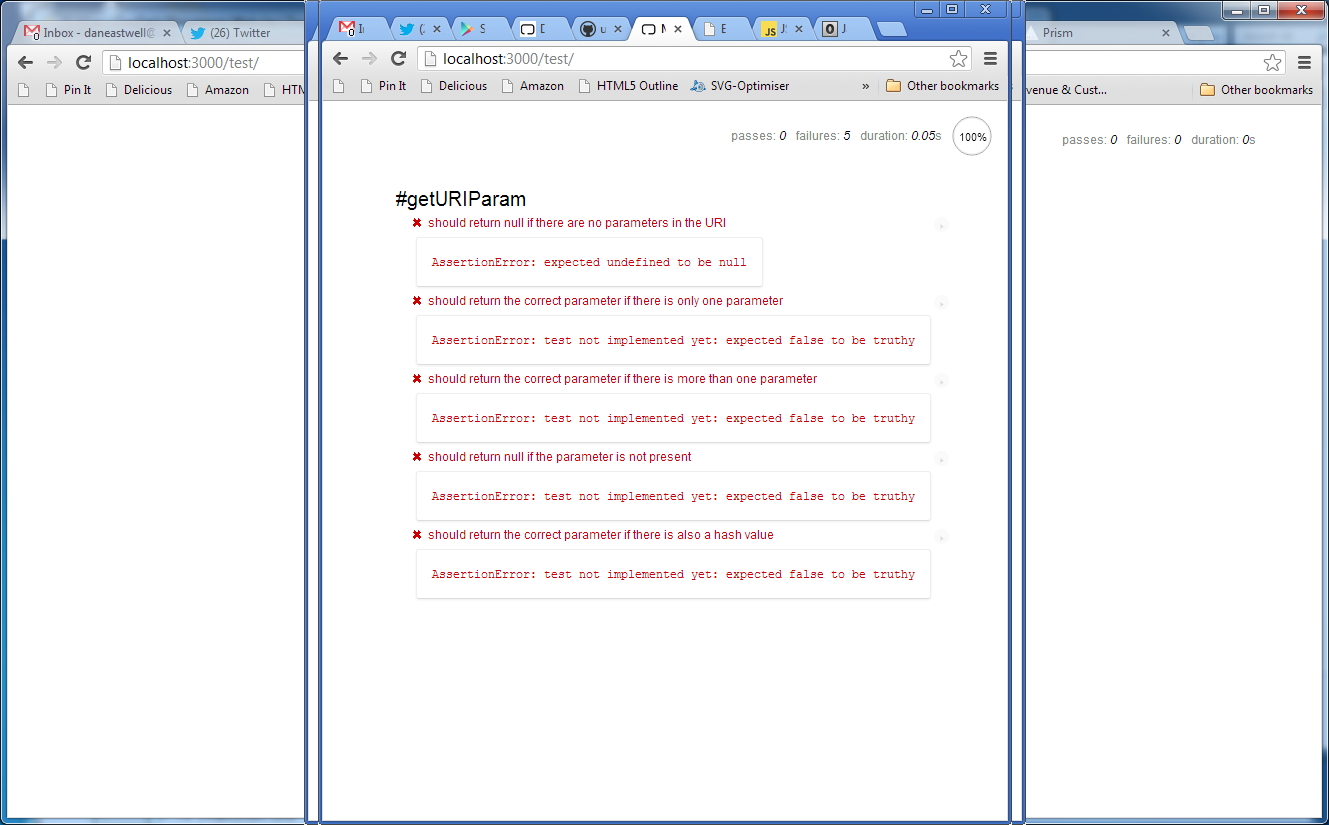
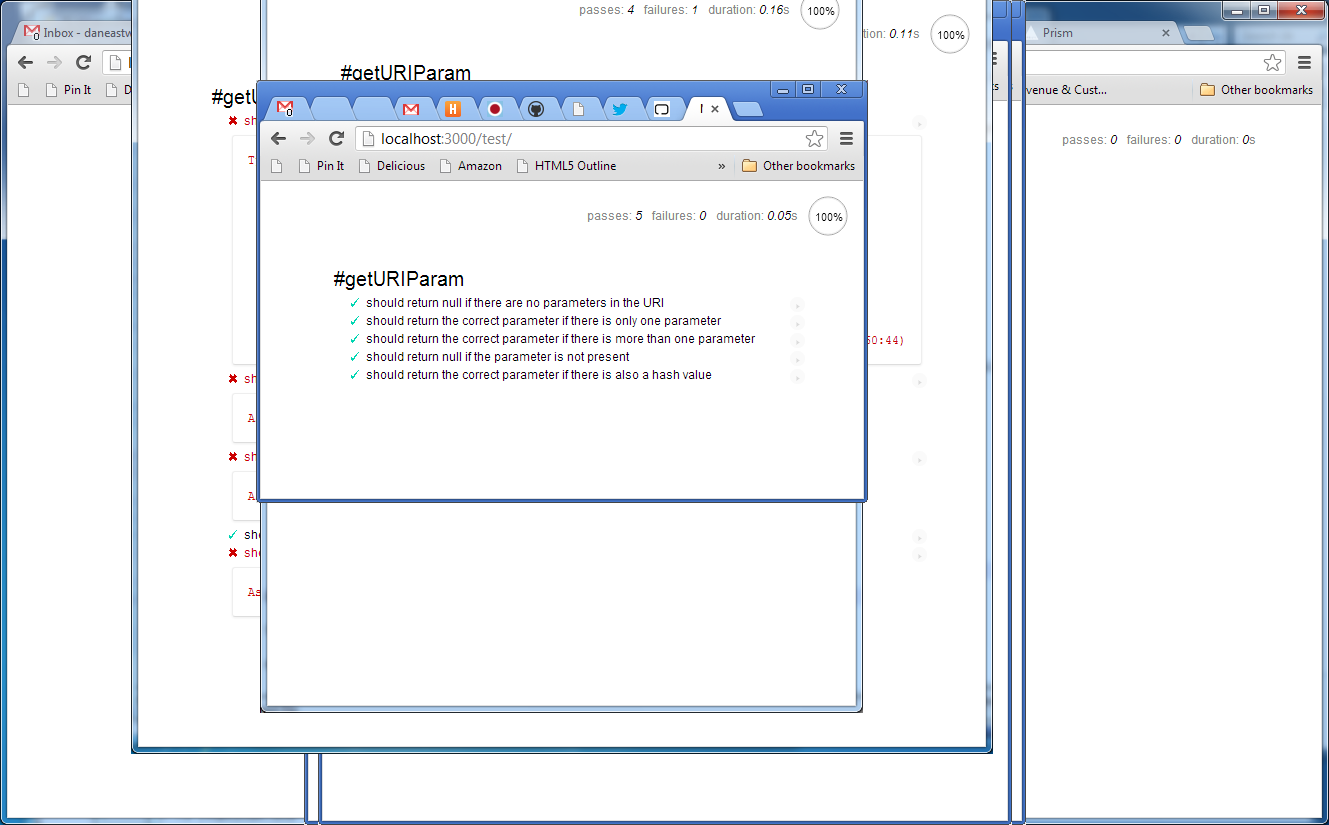
Complete article on TDD

Changed region(s): [[0.0926, 0.0, 0.7713, 0.9394], [0.4628, 0.697, 0.5245, 0.7273], [0.3394, 0.697, 0.4011, 0.7273]]

diff --git a/_posts/0000-02-09-testing-for-jquery-users.md b/_posts/0000-02-09-testing-for-jquery-users.md
@@ -19,7 +19,9 @@ related:
 * [Leap straight to the How To](#how_to_test)
 * [View the code used in this test on github](https://github.com/maskingtape/unit-test-tutorial)
 
-I always wondered why (especially if you worked with a test team), you needed to test your code at all. And how you could test, if you were building a web page whose success or failure was shown by out of place HTML?
+If you're at the stage you're writing javascript using jQuery and have heard of TDD, BDD or Unit Tests and wondered how to get started, or why you should bother, this article should give a gentle introduction.
+
+I always wondered why (especially if you worked with a test team), you needed to test your code at all. And how you could test, if you were building a web page whose success or failure was only shown by out of place HTML?
 
 I have been introduced to three types of testing
 
@@ -37,9 +39,9 @@ At a much simpler level, a developer who is used to enhancing a web page with jQ
 
 Once you've built your site, pretty much anything can happen - clicks, hovers, dynamically loaded content and then in a variety of browers. How can you cover it all? Where to start?
 
-The key for me was to accept that you can't. You can, however, test parts. Then at least you've tested something. 
+The key for me was to accept that you can't cover it all. You can, however, test parts. Then at least you've tested something. 
 
-Why test? Because you may not be the only person working on the code - if you have a test, then you can tell if they've broken it. You may be the only persion working on the code. In six months' time you want to know if _you've_ broken it.
+Why test? Because you may not be the only person working on the code - if you have a test, then they can tell if they've broken it. You may be the only persion working on the code. In six months' time you want to know if _you've_ broken it.
 
 Even the simplest of web pages can be quite stateful. For example if you're fetching a parameter from the URL, say, then there's a lot to bear in mind:
 
@@ -48,13 +50,13 @@ Even the simplest of web pages can be quite stateful. For example if you're fetc
 * Is the parameter you require there?
 * What if there's a hash value?
 
-To ensure your simple parameter function works, you need to go through those steps to check. If you're thorough, you need to go through them every time you change a related part of your code.
+To ensure your simple parameter function works, you'd need to go through each of those steps to check your function was working. If you're thorough, you need to go through each of those steps _every time_ you change a related part of your code.
 
-_If you've written tests, you refresh your test page._
+_If you've written tests, you only need to refresh your test page._
 
 ## How to test
 
-Take our fetching a parameter from the URL example - it's straightforward, to write what you expect the function to do in those situations:
+Take our fetching-a-parameter-from-the-URL example, it's straightforward to write what you'd expect the function to do in those situations:
 
 * Does it have no parameter at all?
   _You'd expect the function to return null._
@@ -85,7 +87,7 @@ Your tests need to live somewhere separate to your code, but have access to it. 
         chai.js
         mocha.css
       
-Let's have a look at this. `index.html` and `script.js` are your code as written (or as yet to be written).
+Let's have a look at this. `index.html` and `script.js` are your site code (yet to be written).
 
 `/test` will contain all your tests. You'll need an HTML file for each set of tests (or all of them) and a `test.js` file containing your tests. We'll come to that in a bit.
 
@@ -171,6 +173,8 @@ Other than that it reads as english. I've filled the rest in at [this commit in 
 
 ![Screenshot of all the tests failing](/images/2_9_empty.png)
 
+Everything's failing. Good. Now let's start fixing that...
+
 ### Accessing your function
 
 Let's actually write some code now. I've added in my html file and my javascript. I've added the `getURIParam` function, but it's empty for now.
@@ -204,7 +208,7 @@ Here's the javascript
       "use strict";
       
       var self = {
-        getURIParam : function getURIParam(uri){
+        getURIParam : function getURIParam(uri, param){
         
         }
       };
@@ -218,8 +222,9 @@ You can see that I can access my function using `mySite.getURIParam`.
 I can now add this function call to my unit test.
 
     it('should return null if there are no parameters in the URI', function(){
-      var url = "http://www.example.com/index.html";
-      expect(mySite.getURIParam(url)).to.be.null;
+      var url = 'http://www.example.com/index.html',
+          param = 'test';
+      expect(mySite.getURIParam(url, param)).to.be.null;
     });
 
 A couple of things to note here: firstly the Chai syntax - it reads as english. You could pretty much guess the syntax and it would probably do what you imagined it would.
@@ -228,22 +233,139 @@ Secondly, note we're not actually reading the URL from the page location. We're 
 
 ![Screenshot of all the first tests failing with appropriate message](/images/2_9_one_test.png)
  
-You've now written unit tests for a simple function. Looking at these now, you might see other possible tests. What if there's no filepath? Or a very long, complex one - would you need to test for that? Probably not, given the search for `'?'` but this indicates how writing the tests can make your approach to writing code more thorough.
+The full set of tests are [on github at this commit](https://github.com/maskingtape/unit-test-tutorial/blob/f7fefc6a903fd0f5afaef570178939da98d6a2cc/test/test.js). 
+
+Looking at these now, you might see other possible tests. What if there's no filepath? Or if there are parameters, but the one requested isn't present. Maybe your code needs to cope with the parameters being in any order. 
+
+You can write Chai assertions to cover these cases - writing the tests can make your coding more thorough and robust.
+
+### Writing the code
+
+Finally! We can start filling in the function.
+
+It needs to return something, and I'll initialise that to `null`:
+
+    
+    getURIParam : function getURIParam(uri, param){
+      var val = null;
+      return val;
+    }
+    
+If you run the tests now, the tests for no parameters and parameter not present pass, hooray! Of course that's really a false pass as we've done nothing.
+
+I'll get the search value from the uri string, and the parameters as an array from that search value:
+
+    
+    getURIParam : function getURIParam(uri, param){
+      var val = null,
+          search = uri.split('?')[1],
+          params = search.split('&');
+          
+      return val;
+    }
+
+Immediately we can see a problem. Thank goodnes for those tests!
+
+![Screenshot of test results showing code error in first test](/images/2_9_code_fail.png)
+    
+We can see that the first test has failed completely. We're splitting `search`, assuming it's an existing string. If it doesn't exist, we should be returning null (test 4).
+
+Returning to the code:
+
+    getURIParam : function getURIParam(uri, param){
+      var val = null,
+          search = uri.split('?')[1],
+          params;
+
+      if(typeof search === 'undefined'){
+        return null;
+      }else{
+        params = search.split('&');
+      }
+      
+      return val;
+    }
+
+That's better. Tests 1 and 4 now pass, but we can be sure that at least test 4 is passing meaningfully.
+
+Changing the code to 
+
+    getURIParam : function getURIParam(uri, param){
+      var val = null,
+          search = uri.split('?')[1],
+          params = [];  // Given an initial assignment  
+                        // to set Array type
+
+      if(typeof search === 'undefined'){
+        return null;
+      }else{
+        params = search.split('&');
+      }
+      
+      if(params.length === 0){ // check for any parameters
+        return null;
+      }else{
+        for(var i=0;i<params.length;i++){
+          console.log(params[i]);
+        }
+      }
+      
+      return val;
+    }
+
+Now tests 1 and 4 pass meaningfully, but I'm still thinking of potential issues - what if we have an `&amp;`, rather than an `&` in the `uri`? Would our code cope? What if there's no `uri` at all? Or a param has not been passed in?
+
+I've added a `console.log` in the loop over the parameters I've got from the `uri` string.
+
+    test=3              script.js:22
+    item=003            script.js:22
+    name=dan            script.js:22
+    test=3              script.js:22
+    item=003            script.js:22
+    name=dan            script.js:22
+    amount=3            script.js:22
+    item=003            script.js:22
+    name=dan            script.js:22
+    test=3#inPageLink   script.js:22
+      
+I'd like to get the parameter value before the equals sign and if that's the one we're looking for return the value.
+
+Here's the for loop with the code I've replaced that `console.log` with:
+
+    for(var i=0;i<params.length;i++){
+      var arr = params[i].split('='),
+          key    = arr[0],
+          value  = arr[1];
+      if(key === param){
+        return value;
+      }
+    }
+    
+And here's the output: 
+
+![Tests running with all bar one passing](/images/2_9_penultimate.png)
+
+Much better! All done, bar one failing test - what to do when there's a hash value.
+
+If I change the return to strip off everything after any `#` symbol:
+
+    return value.split('#')[0];
+    
+All tests pass!
+
+![All tests passing](/images/2_9_passing.png)
+
+You've now written unit tests for a simple function. 
+
+I imagine the function could be written better, with more tests - the [code is here](https://github.com/maskingtape/unit-test-tutorial) - feel free to play.
+
+By the way, don't use this function in a real project - I've noted how there are missing tests, and missing functionality, it's illustrative only. 
 
 ## Why and When to Unit Test? 
 
-Makes your code simpler and more reusable
+Testing makes your code simpler and more reusable - you have to break your code into 'units' to enable testing, and by doing so, your code becomes modular.
 
-When you have a simple piece of code
-Not such a good idea with DOM manipulation and user interaction
-
-## Testing behaviour
-
-### The setup
-
-### Test the state of the output HTML with jQuery
-
-### The teardown
+Test when you have a simple piece of code that has to cater for many situations, as in the example. It's not such a good idea to Unit Test with DOM manipulation and user interaction - that's what behavioural and integration tests should cover.
 
 ## When not to test
 
@@ -253,11 +375,13 @@ To reduce that start up time, you really need to be sure that you are writing Un
 
 You don't need to ensure behavioural tests cover _every_ state in your system. Be judicious in your choice of tests.
 
-As you may well be working from a written requirement (or even writing them yourself), you have in plain english a documentation of how the application you're writing is meant to behave. What's more those specifications are linked directly to the code base. You're best off starting writing your tests from those requirements.
-
 If you get a bug, write a test to cover your expectation in the situation that causes the bug. E.g. if adding in a `#!` sequence breaks your url parameter getting function, then write a test expecting what should happen in that case.
 
 Finally, ensure your tests don't just cover the 'happy path'. You need to ensure you're testing beyond 'what just works', and also consider what might break your code and test for that.
+
+## Wrapping up
+
+That's Unit Testing - testing the function in isolation. In the next article, I'll be using that function in the HTML, and using Behavioural Tests (and finally some jQuery) to test what a user might actually do.
 
 {% assign related = page.related %}
 {% include related.liquid %}

diff --git a/_posts/0000-02-09-bdd-testing-for-jquery-users.md b/_posts/0000-02-09-bdd-testing-for-jquery-users.md
@@ -1,0 +1,32 @@
+---
+layout: default
+#category: articles
+title: BDD Testing for jQuery Users
+overview: Testing your javascript code based on user behaviour, using Mocha and Chai
+related: 
+- type: skill
+  url: /skills/javascript-apis-programming
+  title: Javascript and Development
+- type: project
+  url : /projects/survey-engine
+  title: Survey Engine - A survey system for GAIN/IDS/USAID
+- type: article
+  url : /articles/testing-for-jquery-users
+  title: Testing for jQuery Users
+---
+
+
+# {{ page.title }}
+
+<p class="overview">{{ page.overview }}</p>
+
+## Testing behaviour
+
+
+As you may well be working from a written requirement (or even writing them yourself), you have in plain english a documentation of how the application you're writing is meant to behave. What's more those specifications are linked directly to the code base. You're best off starting writing your tests from those requirements.
+
+### The setup
+
+### Test the state of the output HTML with jQuery
+
+### The teardown
